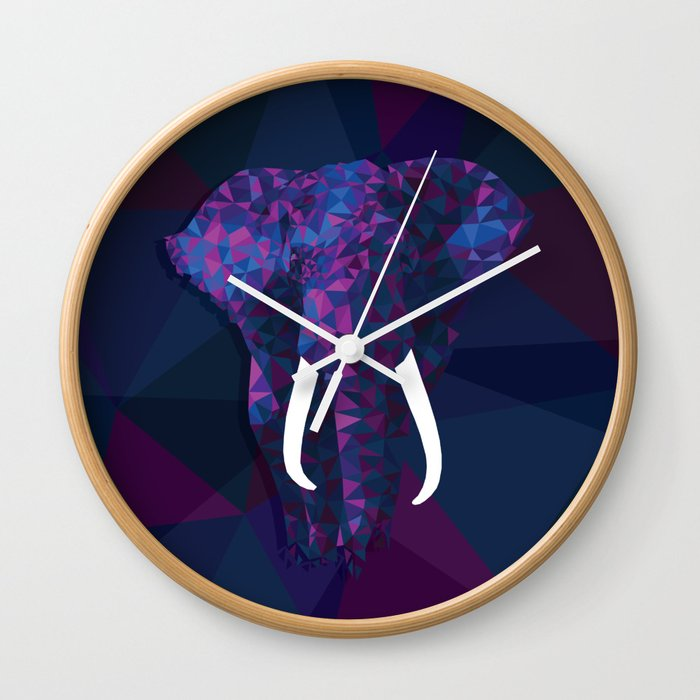
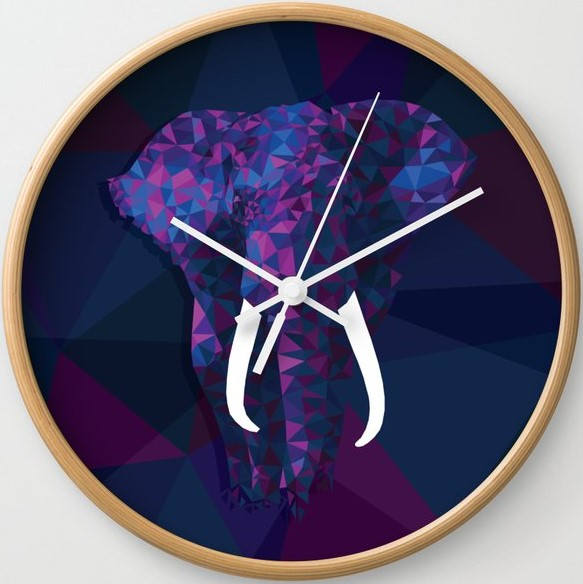
The Fine Product

diff --git a/src/main/ui/gui/AlarmControllerPanelLabels.java b/src/main/ui/gui/AlarmControllerPanelLabels.java
@@ -28,7 +28,6 @@ public class AlarmControllerPanelLabels extends JPanel implements Observer {
         show = true;
         view = true;
         showImage = true;
-        setBackground(Color.lightGray);
         setImage();
         setLayout();
         bgImage = bgImage2;
@@ -45,8 +44,7 @@ public class AlarmControllerPanelLabels extends JPanel implements Observer {
         try {
             Image image;
             image = ImageIO.read(new File("./data/geometric-cool-elephant-wall-clocks.jpg"));
-            bgImage2 = image.getScaledInstance(WIDTH - 20,300, Image.SCALE_SMOOTH);
-
+            bgImage2 = image.getScaledInstance(WIDTH - 60,290, Image.SCALE_SMOOTH);
         } catch (IOException e) {
             System.out.println("Image Error");
         }
@@ -69,7 +67,7 @@ public class AlarmControllerPanelLabels extends JPanel implements Observer {
     @Override
     protected void paintComponent(Graphics g) {
         super.paintComponent(g);
-        g.drawImage(bgImage, 20, 0, null);
+        g.drawImage(bgImage, 40, 5, null);
     }
 
     @Override

diff --git a/src/main/ui/gui/AlarmClock.java b/src/main/ui/gui/AlarmClock.java
@@ -5,6 +5,7 @@ import model.AlarmList;
 
 import javax.swing.*;
 import java.awt.*;
+import java.io.File;
 
 //The Class To Run the GUI App
 public class AlarmClock extends JFrame implements Observer {
@@ -21,6 +22,8 @@ public class AlarmClock extends JFrame implements Observer {
 
     //Effects: Initializes everything in GUI
     public AlarmClock() {
+        ImageIcon imageIcon = new ImageIcon("./data/geometric-cool-elephant-wall-clocks.jpg");
+        setIconImage(imageIcon.getImage());
         clockPanel = new ClockPanel();
         controller = new AlarmController(name);
         buttons = new AlarmControllerPanelButtons(controller);
